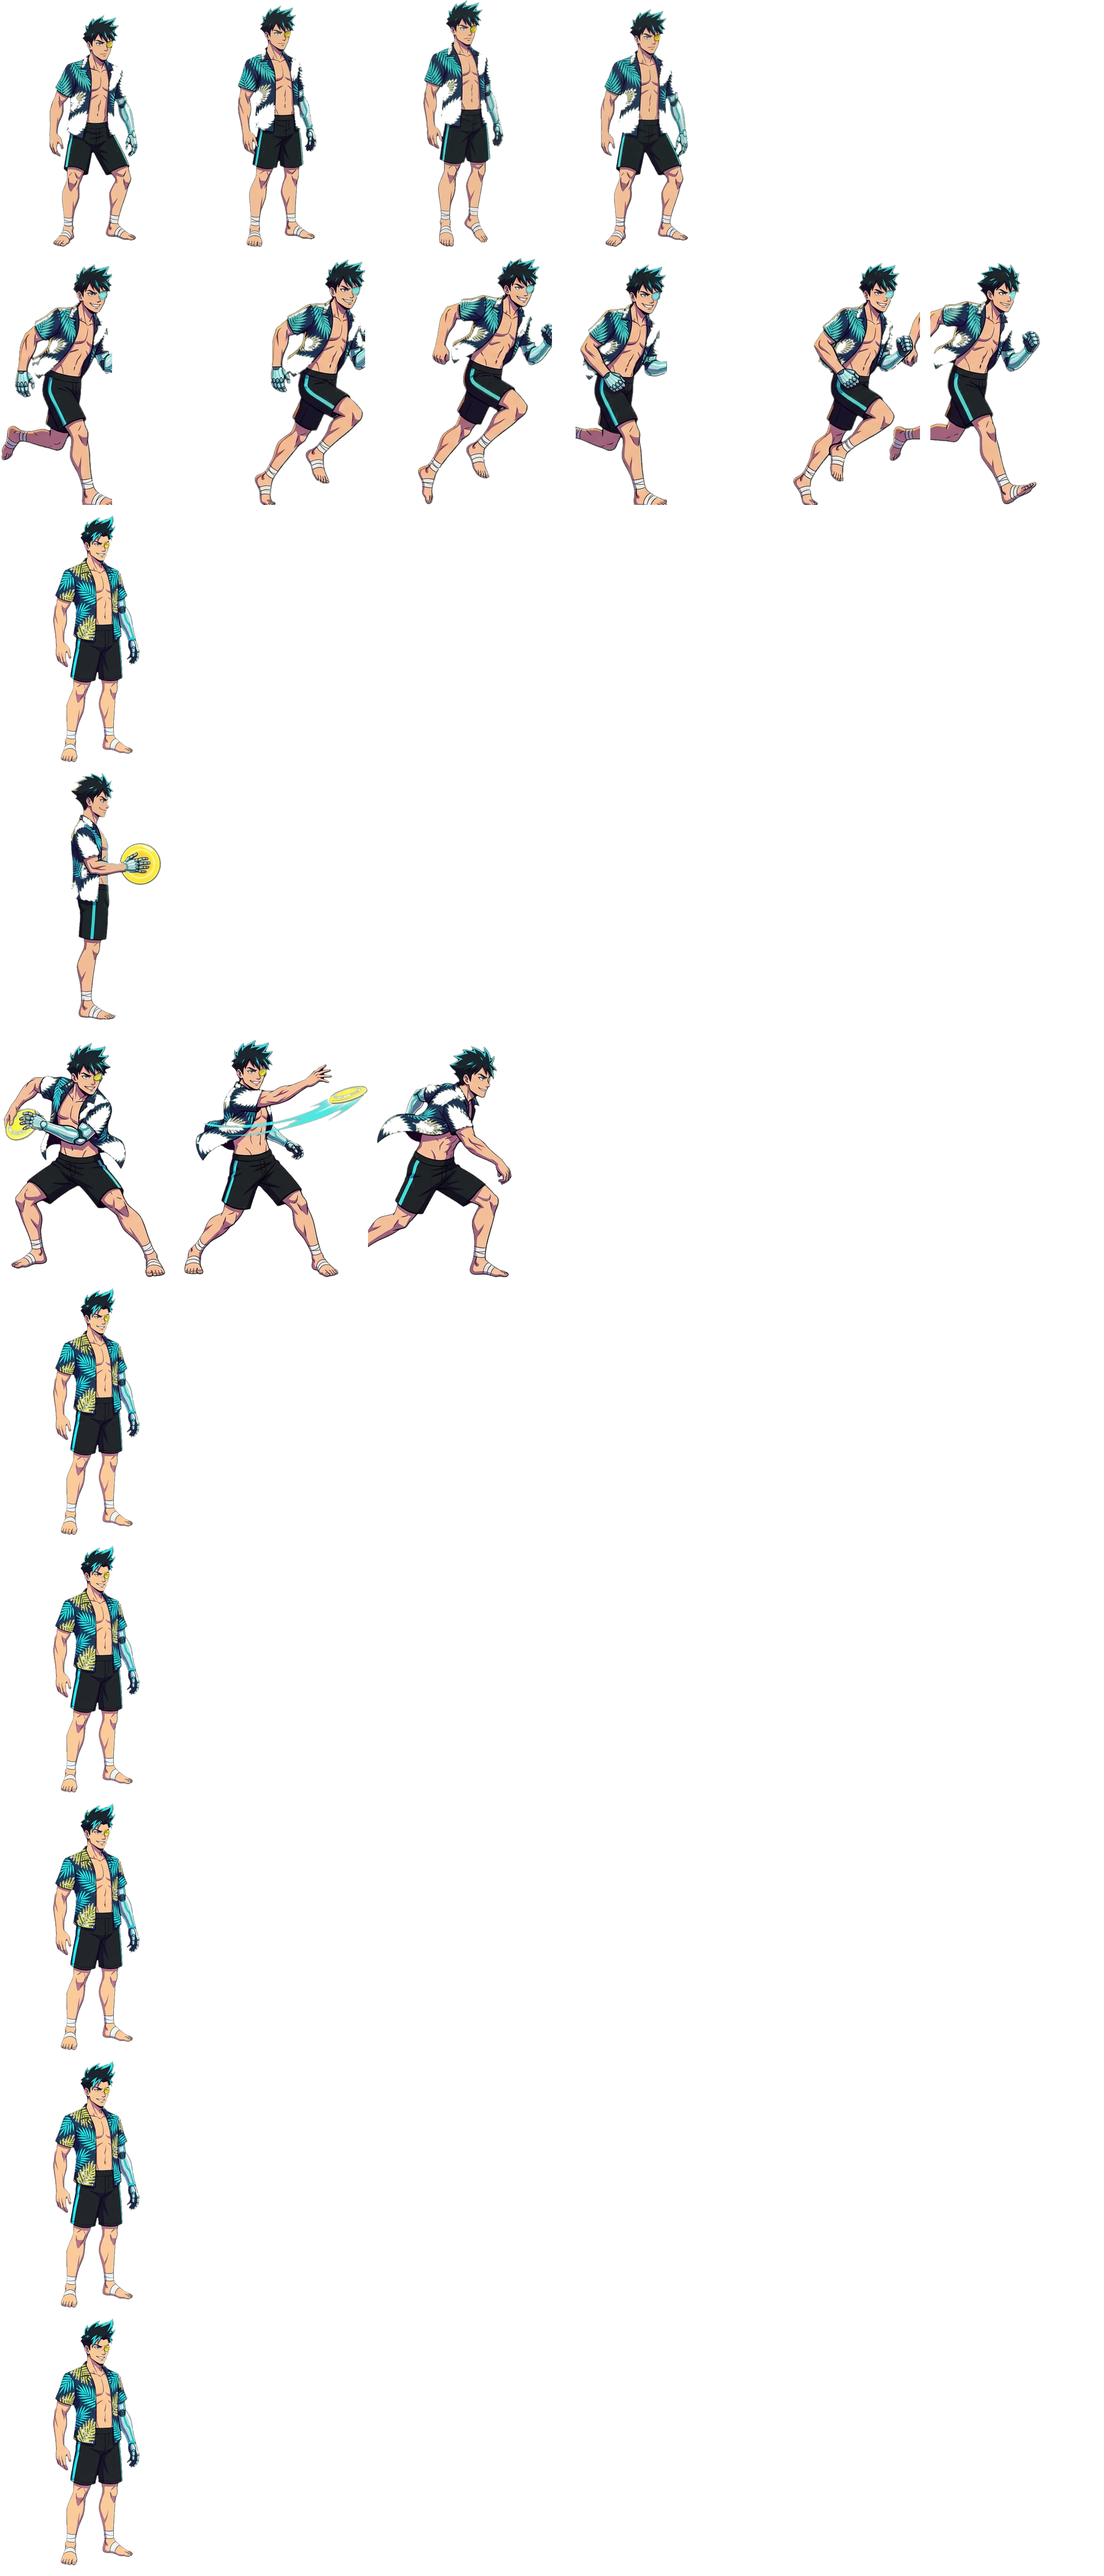
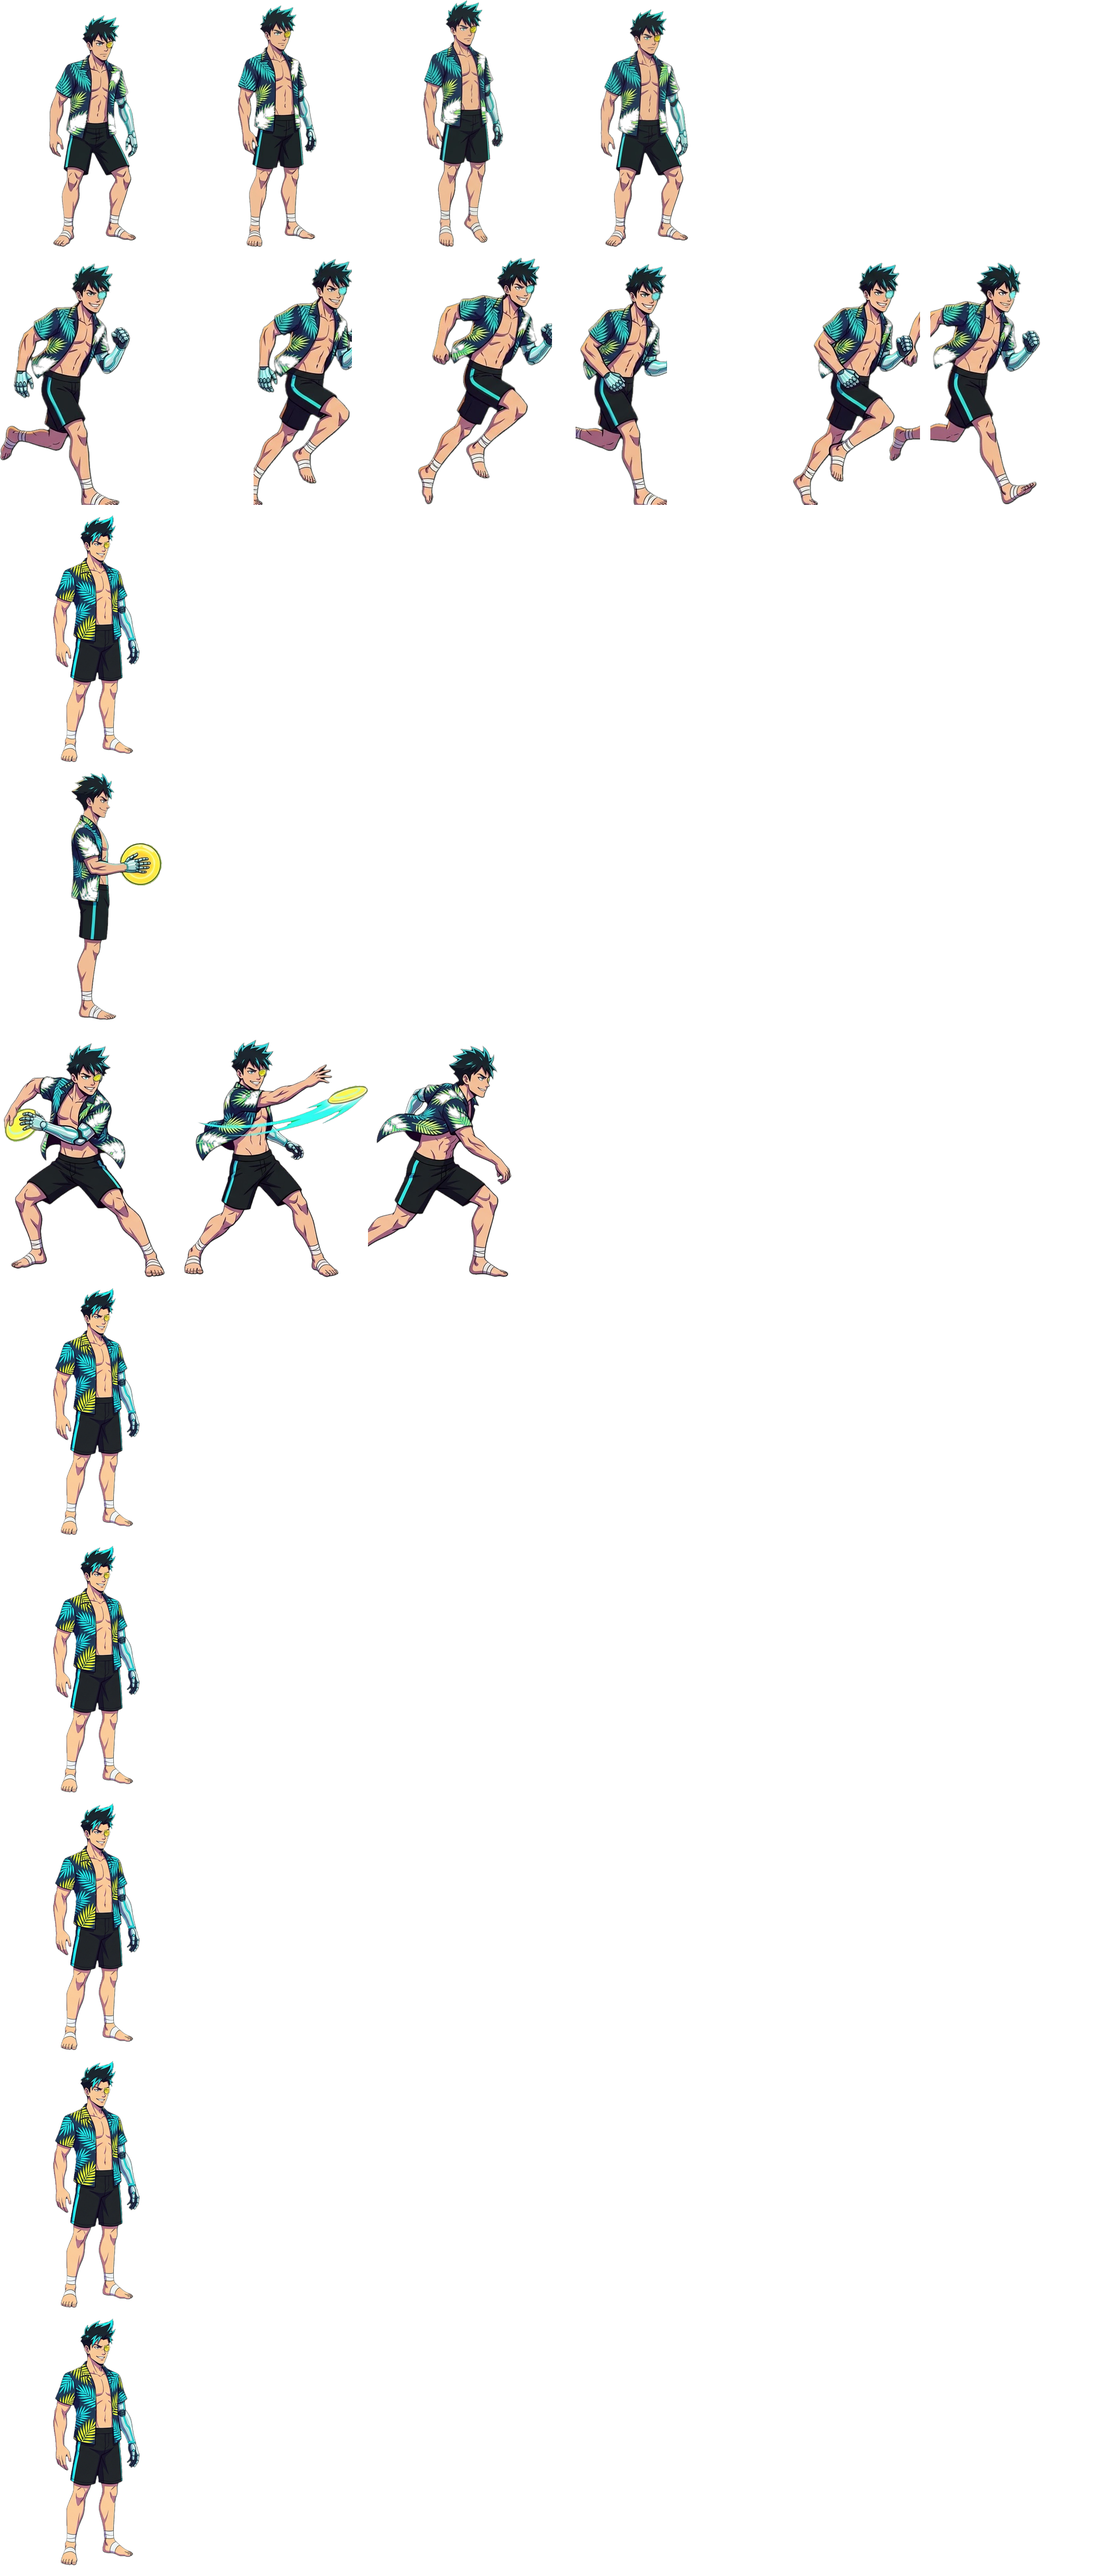
Video-to-sprite pipeline (process.py video, video sources in approved.json), video01 pilot queue with start frames; fix keying of costume greens and enclosed gaps
Claude-Session: https://claude.ai/code/session_019M5Dpgc2psw9ifHCzpuztd

diff --git a/tools/gen-assets/process.py b/tools/gen-assets/process.py
@@ -36,11 +36,30 @@ def cmd_key(inp, out):
     rgb = img[..., :3] / 255.0
     hsv = cv2.cvtColor((rgb * 255).astype(np.uint8), cv2.COLOR_RGB2HSV).astype(np.float32)
     h, s, v = hsv[..., 0] * 2, hsv[..., 1] / 255, hsv[..., 2] / 255  # h in degrees
-    green = (np.abs(h - 120) < 28) & (s > 0.28) & (v > 0.25)
+    green = (np.abs(h - 122) < 22) & (s > 0.45) & (v > 0.3)
+    # Background = green regions connected to the image border (or very large). Green enclosed by a
+    # figure (costume stripes, lime trims) stays opaque instead of being punched out as holes.
+    ng, glbl, gstats, _ = cv2.connectedComponentsWithStats(green.astype(np.uint8), 8)
+    border = set(np.unique(np.concatenate([glbl[0], glbl[-1], glbl[:, 0], glbl[:, -1]])).tolist())
+    # Enclosed pockets (gaps between arm and body) are still background if their colour matches the
+    # sampled screen colour; costume greens (e.g. lime, R≈180) sit far from it.
+    edge_px = np.concatenate([img[0, :, :3], img[-1, :, :3], img[:, 0, :3], img[:, -1, :3]])
+    bg_rgb = np.median(edge_px, axis=0)  # borders are (almost) all screen green
+    bgk = np.zeros(ng, bool)
+    for i in range(1, ng):
+        if i in border or gstats[i, cv2.CC_STAT_AREA] > green.size * 0.01:
+            bgk[i] = True
+        else:
+            mean = img[..., :3][glbl == i].mean(axis=0)
+            bgk[i] = np.abs(mean - bg_rgb).max() < 60
+    green = bgk[glbl]
     # "greenness": how much G dominates R and B -> soft matte on edges
     r, g, b = rgb[..., 0], rgb[..., 1], rgb[..., 2]
     dom = np.clip((g - np.maximum(r, b)) * 2.2, 0, 1)
-    alpha = 1 - np.where(green, 1.0, dom * 0.9)
+    # Only colours whose hue is near the key count as "spill". Without this, legit costume greens
+    # (Roxy's lime #b6ff2e, hue ~83°) were matted semi-transparent and despilled to grey.
+    keyish = (np.abs(h - 122) < 30) & (s > 0.3) & ~cv2.erode((~green).astype(np.uint8), np.ones((9, 9), np.uint8)).astype(bool)
+    alpha = 1 - np.where(green, 1.0, np.where(keyish, dom * 0.9, 0.0))
     # remove isolated noise, keep only large components
     hard = (alpha > 0.5).astype(np.uint8)
     n, lbl, stats, _ = cv2.connectedComponentsWithStats(hard, 8)
@@ -56,8 +75,8 @@ def cmd_key(inp, out):
     a8 = cv2.erode(a8, np.ones((2, 2), np.uint8))
     a8 = cv2.GaussianBlur(a8, (3, 3), 0)
     # despill: clamp green to max(r,b) near edges
-    edge = (a8 > 0) & (a8 < 255) | (dom > 0.05)
-    g2 = np.where(edge | (a8 > 0), np.minimum(g, np.maximum(r, b) * 1.05), g)
+    edge = (a8 > 0) & (a8 < 250)
+    g2 = np.where(edge | keyish, np.minimum(g, np.maximum(r, b) * 1.05), g)
     out_rgb = np.stack([r, g2, b], -1)
     res = np.dstack([(out_rgb * 255).clip(0, 255).astype(np.uint8), a8])
     Image.fromarray(res, "RGBA").save(out)
@@ -186,6 +205,48 @@ def cmd_pack(manifest, out):
     print("atlas ->", out, atlas.size)
 
 
+def cmd_video(inp, outdir, fps=24, start=0.0, dur=None):
+    """Video (green screen) -> keyed, trimmed frames k_0000.png... + numbered contact sheet.jpg."""
+    import subprocess
+    import imageio_ffmpeg
+
+    out = Path(outdir)
+    out.mkdir(parents=True, exist_ok=True)
+    for f in out.glob("*.png"):
+        f.unlink()
+    cmd = [imageio_ffmpeg.get_ffmpeg_exe(), "-loglevel", "error", "-ss", str(start)]
+    if dur:
+        cmd += ["-t", str(dur)]
+    cmd += ["-i", str(inp), "-vf", f"fps={fps}", str(out / "raw_%04d.png")]
+    subprocess.run(cmd, check=True)
+    raws = sorted(out.glob("raw_*.png"))
+    thumbs = []
+    for i, r in enumerate(raws):
+        k = out / f"k_{i:04d}.png"
+        cmd_key(r, k)
+        arr = np.array(Image.open(k))
+        if (arr[..., 3] > 40).sum() < arr[..., 3].size * 0.002:
+            k.unlink()  # empty frame (character left the shot)
+        else:
+            Image.fromarray(clean_frame(arr), "RGBA").save(k)
+            thumbs.append((i, k))
+        r.unlink()
+    # contact sheet with frame numbers, for picking
+    from PIL import ImageDraw
+    cols, tw, th = 10, 150, 220
+    rows = (len(thumbs) + cols - 1) // cols
+    sheet = Image.new("RGB", (cols * tw, max(1, rows) * th), (70, 70, 80))
+    d = ImageDraw.Draw(sheet)
+    for n, (i, k) in enumerate(thumbs):
+        t = Image.open(k)
+        t.thumbnail((tw - 6, th - 22))
+        x, y = (n % cols) * tw, (n // cols) * th
+        sheet.paste(t, (x + 3, y + 18), t)
+        d.text((x + 4, y + 2), str(i), fill=(255, 230, 0))
+    sheet.save(out / "sheet.jpg", quality=85)
+    print(f"{len(thumbs)} frames ({len(raws)} extracted) -> {out}")
+
+
 def cmd_sheet(inp, out):
     img = Image.open(inp).convert("RGBA")
     w, h = img.size
@@ -212,6 +273,9 @@ if __name__ == "__main__":
         cmd_slice(a[1], a[2], exp)
     elif cmd == "pack":
         cmd_pack(a[1], a[2])
+    elif cmd == "video":
+        opt = lambda k, d=None: a[a.index(k) + 1] if k in a else d  # noqa: E731
+        cmd_video(a[1], a[2], float(opt("--fps", 24)), float(opt("--start", 0)), opt("--dur"))
     elif cmd == "sheet":
         cmd_sheet(a[1], a[2])
     else:

diff --git a/tools/gen-assets/build_assets.py b/tools/gen-assets/build_assets.py
@@ -72,7 +72,13 @@ def build_character(cid: str, spec: dict):
     anims, flags = {}, {}
     for name, fps, loop in ANIMS:
         a = spec.get("anims", {}).get(name)
-        if a:
+        if a and "video" in a:
+            # video source: frames are indices into the keyed video frames (see process.py video + sheet.jpg)
+            vdir = work / (Path(a["video"]).stem + "_video")
+            run("video", HERE / a["video"], vdir, "--fps", a.get("fps", 24), "--start", a.get("start", 0))
+            anims[name] = {"frames": [str(vdir / f"k_{i:04d}.png") for i in a["frames"]], "fps": a.get("playFps", fps), "loop": loop}
+            flags[name] = {"discInArt": bool(a.get("discInArt"))}
+        elif a:
             fr = frames_of(HERE / a["src"], a["expect"], work, a.get("groundLine", False))
             anims[name] = {"frames": [str(fr[i]) for i in a["frames"]], "fps": fps, "loop": loop}
             flags[name] = {"discInArt": bool(a.get("discInArt"))}

diff --git a/tools/gen-assets/queue/video01.md b/tools/gen-assets/queue/video01.md
@@ -1,0 +1,37 @@
+# video01: pilot, animations from Flow VIDEO (image-to-video)
+STATUS: READY
+
+A test of whether video clips make better sprites than image strips. **3 jobs, 1 video each.**
+
+## How to generate (Flow → video)
+1. Use Flow's **video** generation with the **start frame / image-to-video** option ("Frames to video" or "Ingredients"), and upload the job's `start:` image as the **first frame**.
+2. **Aspect ratio: 16:9 LANDSCAPE.** Use the shortest duration offered.
+3. Paste the prompt exactly, generate, and download the MP4 at the highest quality offered.
+4. Save it to the job's output path as `_v1.mp4` (or drop it in `tools/gen-assets/inbox/video01/` named by job number, for example `V1.2.mp4`).
+
+## Job V1.1: ROXY VOLTAGE, throw
+- start: `tools/gen-assets/video_starts/roxy_throw_start.png`
+- output: `tools/gen-assets/raw/roxy/vid_throw_v1.mp4`
+```
+RULES FOR ALL VIDEO JOBS: 2D hand-drawn cartoon animation (bold outlines, flat cel shading), EXACTLY matching the character in the start image: same face, hair, outfit, colors and proportions. LOCKED-OFF STATIC CAMERA: no zoom, no pan, no camera shake, no cuts. The character's whole body stays fully inside the frame at all times, at the same size, seen from the side facing RIGHT. The background stays solid flat pure green (#00FF00) for the entire video: no floor, no shadows, no particles, dust or effects on the background, no text.
+
+ACTION: The athlete winds up by twisting her body and drawing the glowing disc far back behind her hip, then explosively whips her arm forward and releases the disc, which flies off to the right out of frame, and she follows through with her throwing arm fully extended to the right and her weight on her front foot, then settles back into a ready stance. Snappy, powerful, arcade-game timing: the whole throw takes about 1 second.
+```
+
+## Job V1.2: BRICK DIAMOND, throw
+- start: `tools/gen-assets/video_starts/brick_throw_start.png`
+- output: `tools/gen-assets/raw/brick/vid_throw_v1.mp4`
+```
+RULES FOR ALL VIDEO JOBS: 2D hand-drawn cartoon animation (bold outlines, flat cel shading), EXACTLY matching the character in the start image: same face, hair, outfit, colors and proportions. LOCKED-OFF STATIC CAMERA: no zoom, no pan, no camera shake, no cuts. The character's whole body stays fully inside the frame at all times, at the same size, seen from the side facing RIGHT. The background stays solid flat pure green (#00FF00) for the entire video: no floor, no shadows, no particles, dust or effects on the background, no text.
+
+ACTION: The huge bodybuilder winds up by twisting his torso and cocking the glowing disc back behind him with one arm, then launches it forward with enormous power; the disc flies off to the right out of frame and he follows through with his arm fully extended to the right, then settles back into a ready stance with a confident grin. Heavy, powerful, arcade-game timing: the throw takes about 1 second.
+```
+
+## Job V1.3: VEGA STARR, dash (dive)
+- start: `tools/gen-assets/video_starts/vega_dash_start.png`
+- output: `tools/gen-assets/raw/vega/vid_dash_v1.mp4`
+```
+RULES FOR ALL VIDEO JOBS: 2D hand-drawn cartoon animation (bold outlines, flat cel shading), EXACTLY matching the character in the start image: same face, hair, outfit, colors and proportions. LOCKED-OFF STATIC CAMERA: no zoom, no pan, no camera shake, no cuts. The character's whole body stays fully inside the frame at all times, at the same size, seen from the side facing RIGHT. The background stays solid flat pure green (#00FF00) for the entire video: no floor, no shadows, no particles, dust or effects on the background, no text.
+
+ACTION: The athlete explodes into a low, fast diving slide to the RIGHT to catch something: she pushes off hard, dives horizontally with both arms stretched forward, lands and skids on her hip and knee with an arm still reaching right, then quickly pops back up to a ready stance. She stays within the frame (the slide is short). Fast, arcade-game timing: the dive takes about 1 second.
+```

diff --git a/ANTIGRAVITY_HANDOFF.md b/ANTIGRAVITY_HANDOFF.md
@@ -23,13 +23,16 @@ If image generation through your API/tool quota fails, generate through **Google
 4. Work at a steady, human pace (one job at a time). Don't run parallel tabs.
 5. At the top of the log, write `Generated via Google Flow`, plus the resolution you were able to download.
 
+## Video jobs (queue files named `videoNN.md`)
+Same loop, but use Flow's **video** generation in **image-to-video** mode: upload the job's `start:` image as the first frame, pick 16:9 landscape and the shortest duration, paste the prompt exactly, and save the MP4 to the job's output path (or into the inbox, named by job number).
+
 ## Inbox (manual fallback)
 If files can't be named and placed per job, just drop every downloaded image into `tools/gen-assets/inbox/<batch>/` with any filenames and push. The director will identify and sort them.
 
 ## Rules
 - **Use the exact model and resolution each job names.** If that model isn't available to you, say so at the top of the log instead of silently substituting (batch01 came back as Nano Banana 2 at 1K instead of Pro at 2K).
 - Batches can be large. If you hit a quota limit, push what you have, set `STATUS: PARTIAL`, and list the remaining job numbers in the log. The next run resumes from there.
-- **Never** modify files outside `tools/gen-assets/raw/` and `tools/gen-assets/queue/`.
+- **Never** modify files outside `tools/gen-assets/raw/`, `tools/gen-assets/inbox/` and `tools/gen-assets/queue/`.
 - Save full-resolution PNGs. Don't compress them, convert to JPEG or resize.
 - Don't remove or alter the green background. The director's pipeline does the keying.
 - Don't generate anything that isn't in the queue.

diff --git a/CHECKLIST.md b/CHECKLIST.md
@@ -104,6 +104,8 @@ Order: idle(4) run(6) dash(3) hold(2) throw(3) lob(2) block(2) knock(2) win(2) l
 - ✅ Courts: all 4 arenas. ✅ Backdrops: Neon Pier, Laser Lagoon. ❌ Sunset and Orbital backdrops came back portrait: re-queued.
 - Pipeline: the slicer now splits overlapping figures (`--expect`), strips floor lines, and drops neighbour slivers. The renderer hides the 3D disc when the hold art shows it and tones painted courts down.
 - **batch04 READY:** Roxy/Brick throw, dash/lob/block/knock/win/lose for all 4, and 2 landscape backdrops (28 jobs).
+- **video01 READY (pilot):** Flow image-to-video, then `process.py video` extracts, keys, trims and makes a numbered sheet.jpg; `approved.json` anims accept `{"video": ..., "frames": [...]}`. Start frames live in `tools/gen-assets/video_starts/`. If the pilot looks good, switch the remaining animations to video.
+- Keying fixed: only border-connected green (or enclosed pockets matching the screen colour) is removed, so costume greens (Roxy's lime) survive.
 - **batch05 READY:** 4 portraits (3:4) + 4 super cut-ins (16:9, green screen). Independent of batch04.
 
 ## Pending art batches (quota exhausted; resume any time)
